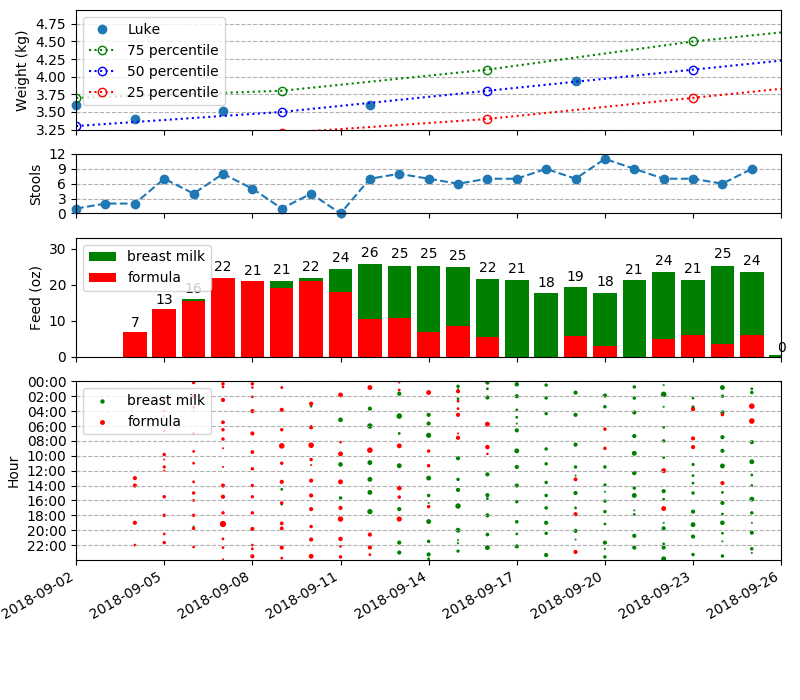
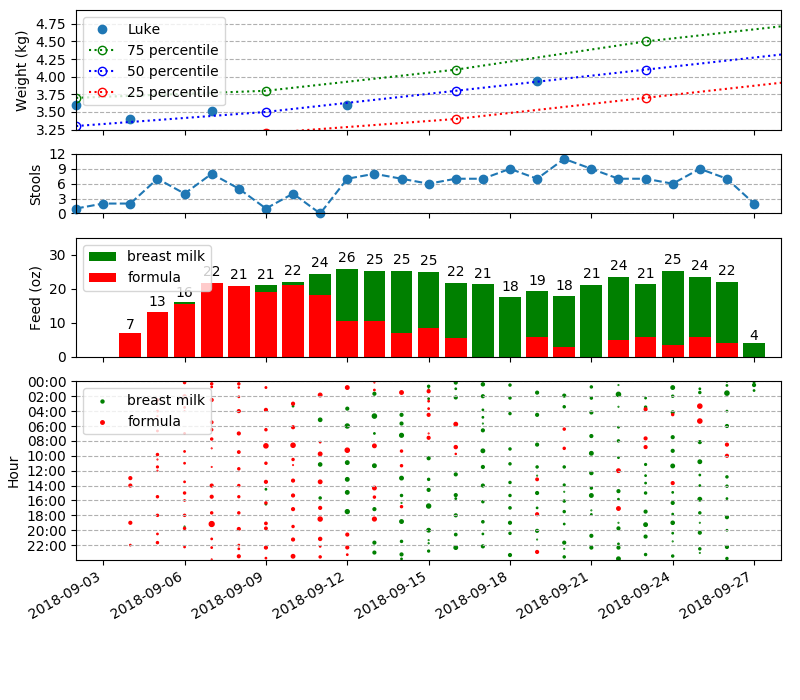
update 9.26.2018

diff --git a/src/utils.py b/src/utils.py
@@ -19,7 +19,7 @@ def autolabel(rects1, rects2):
 
     # give room for the label
     ymin, ymax = ca.get_ylim()
-    plt.ylim([ymin, ymax + 6])
+    plt.ylim([ymin, ymax + 8])
 
 
 def set_y_major(base):
